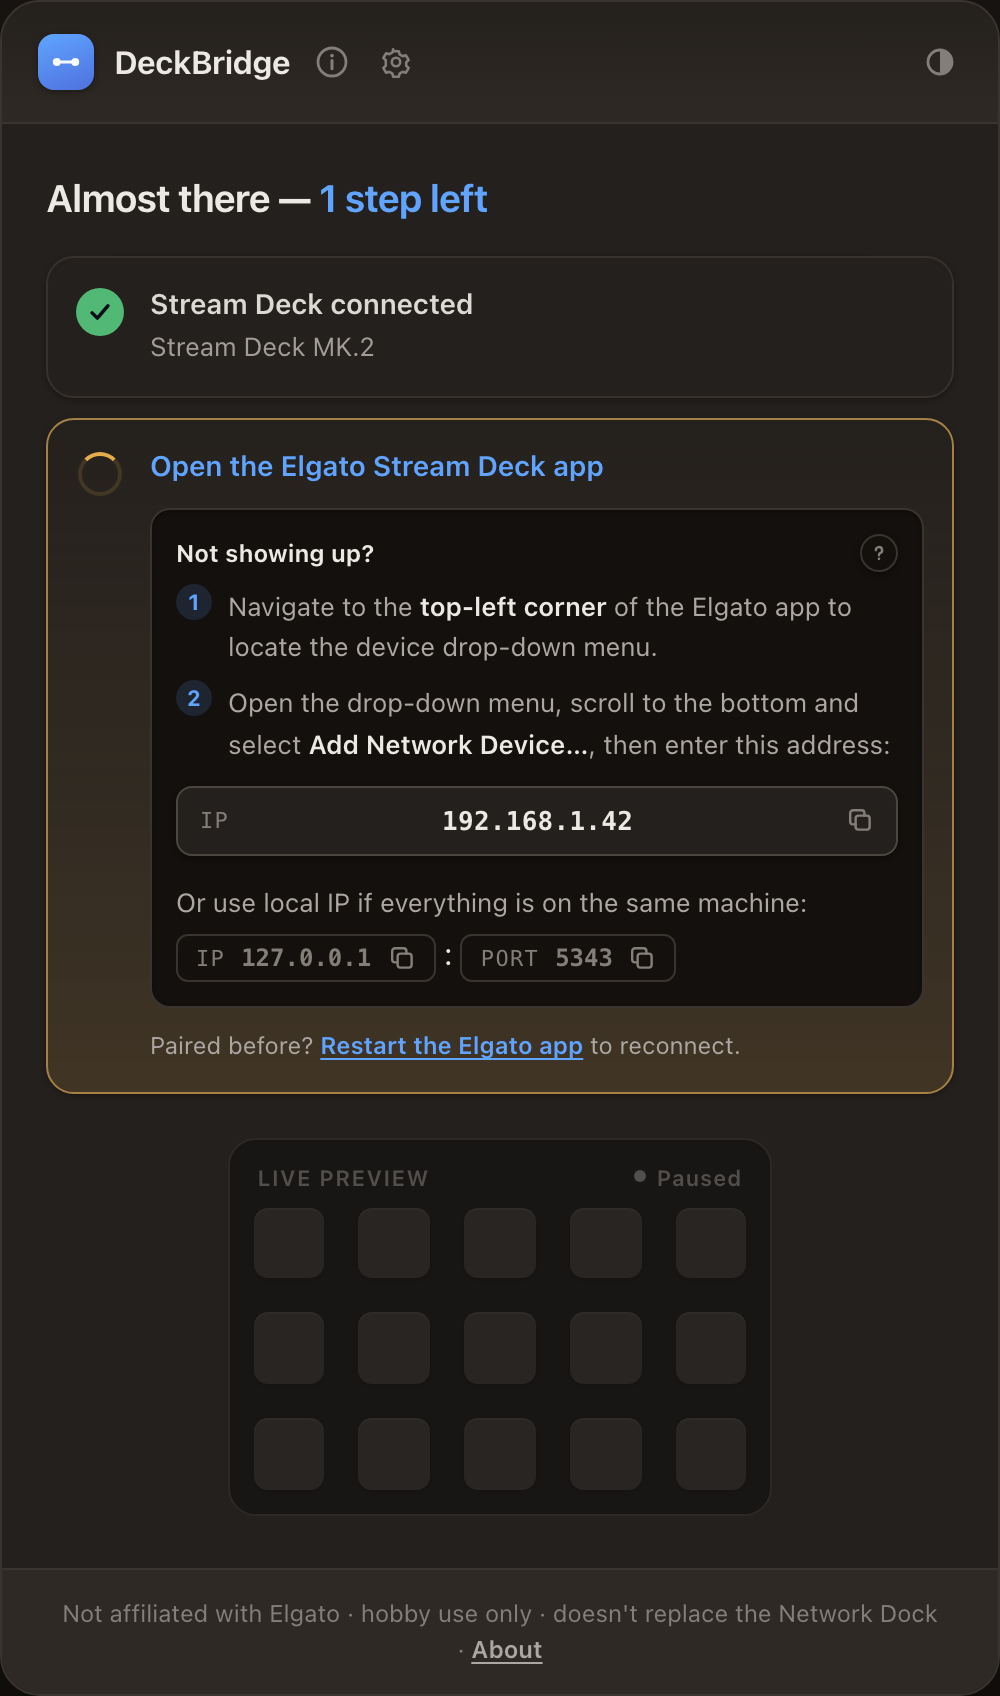
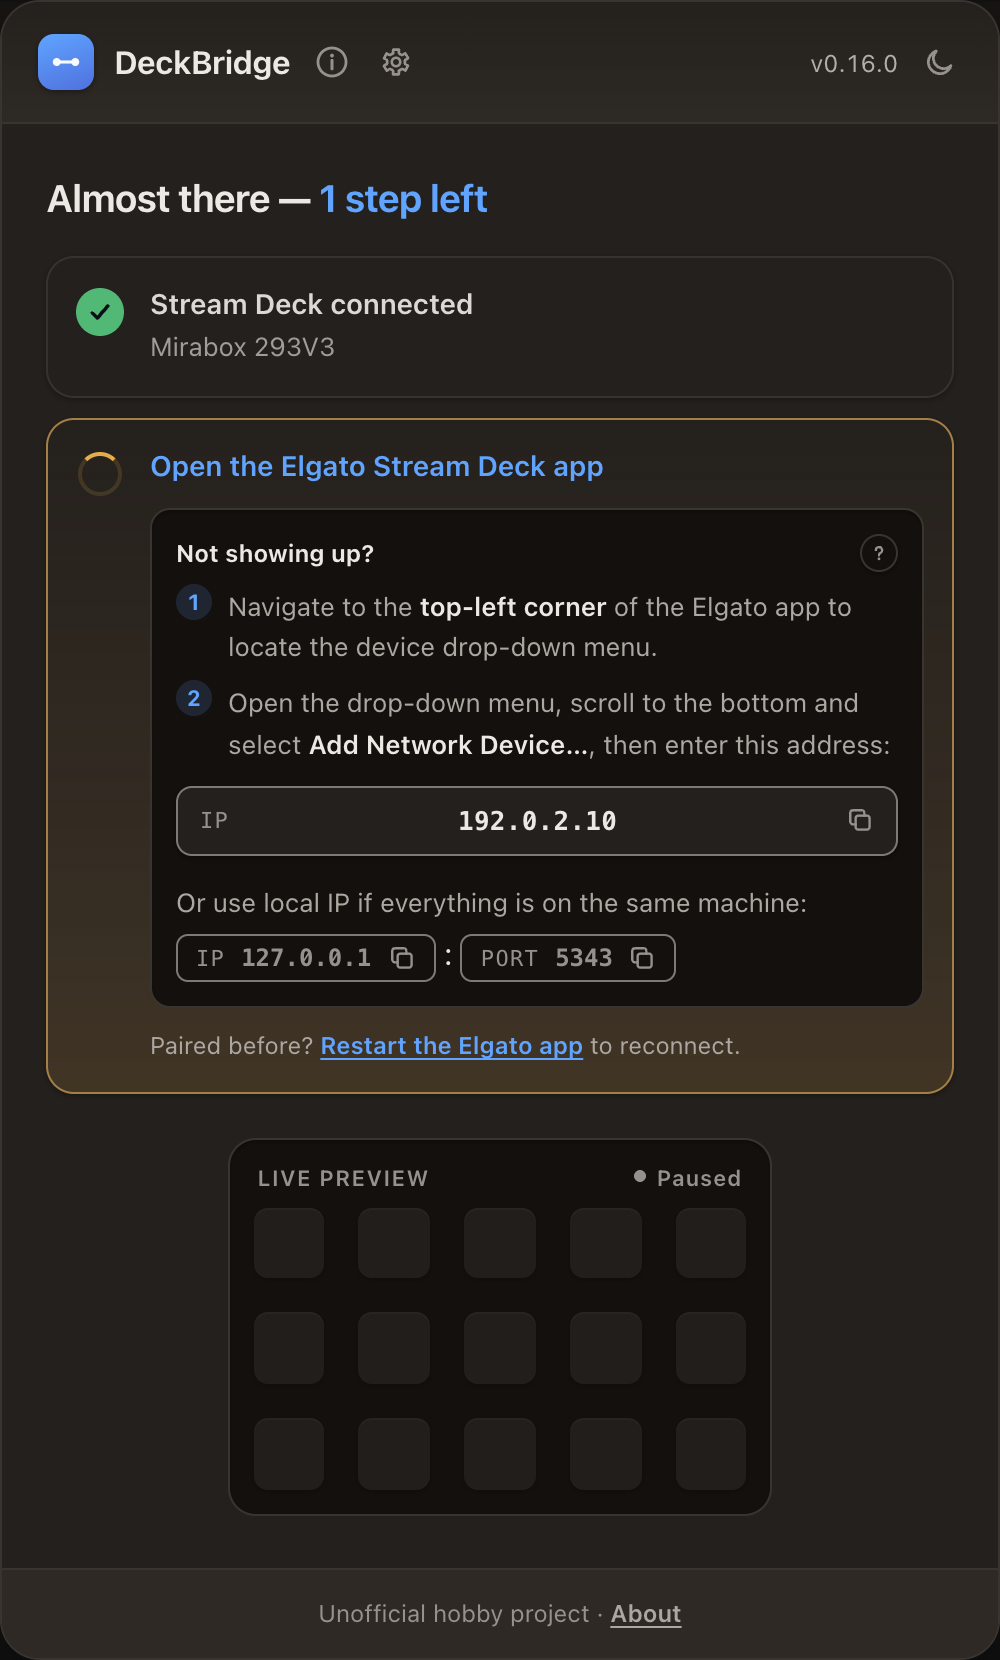
feat(devices): native Stream Deck+ emulation for AKP05, add mock-akp05 task
Retail AKP05 now advertises as stream-deck-plus by default (image/keyMap/cora
from AKP05E). Adds mise mock-akp05 task + script, regen device docs/images.

diff --git a/ts/src/web/client/ui-simple.css b/ts/src/web/client/ui-simple.css
@@ -25,7 +25,7 @@
   gap: 10px;
 }
 .app-version {
-  opacity: 0.5;
+  opacity: 0.7;
   font-size: 12px;
   font-variant-numeric: tabular-nums;
   white-space: nowrap;
@@ -96,7 +96,7 @@
 .xkey-config-btn {
   color: var(--fg-muted);
   background: var(--surface);
-  border: 1px solid var(--border);
+  border: 1px solid var(--control-border);
 }
 .ghostbtn {
   font-family: var(--font);
@@ -110,7 +110,7 @@
 }
 .ghostbtn:hover {
   color: var(--fg);
-  border-color: var(--border-strong);
+  border-color: var(--accent);
 }
 .ghostbtn:active,
 .ctabtn:active,
@@ -359,9 +359,11 @@
     width: 280px;
   }
   &.dimmed {
+    width: 60%;
+  }
+  &.dimmed :is(.key-grid, .touch-strip-preview) {
     filter: saturate(0.4) brightness(0.92);
     opacity: 0.55;
-    width: 60%;
   }
   &.dimmed .live-dot {
     color: var(--fg-dim);
@@ -523,7 +525,7 @@ input[type='range'].range {
     linear-gradient(var(--accent), var(--accent)) 0 / var(--fill, 80%) 100% no-repeat,
     var(--inset);
   box-shadow: var(--inset-shadow);
-  border: 1px solid var(--border);
+  border: 1px solid var(--control-border);
 
   /* NB: keep -webkit-/-moz- thumb rules separate — a shared selector list
      is dropped whole by the engine that doesn't know the other's pseudo */
@@ -534,7 +536,7 @@ input[type='range'].range {
     height: 20px;
     border-radius: 50%;
     background: var(--surface);
-    border: 1px solid var(--border-strong);
+    border: 1px solid var(--control-border);
     box-shadow: var(--shadow-2);
     transition: transform 0.08s;
   }
@@ -546,7 +548,7 @@ input[type='range'].range {
     height: 20px;
     border-radius: 50%;
     background: var(--surface);
-    border: 1px solid var(--border-strong);
+    border: 1px solid var(--control-border);
     box-shadow: var(--shadow-2);
   }
 }
@@ -1346,7 +1348,7 @@ input[type='range'].range:disabled {
   padding: 9px 11px;
   border-radius: 8px;
   background: var(--surface);
-  border: 1px solid var(--border-strong);
+  border: 1px solid var(--control-border);
   box-shadow: var(--shadow-1);
   color: var(--fg);
   font-size: 13px;
@@ -1389,7 +1391,7 @@ input[type='range'].range:disabled {
   padding: 4px 9px;
   border-radius: 6px;
   background: transparent;
-  border: 1px solid var(--border);
+  border: 1px solid var(--control-border);
   color: var(--fg-dim);
   font-size: 12px;
 }
@@ -1974,7 +1976,7 @@ input[type='range'].range:disabled {
   font-size: 12px;
   color: var(--fg);
   background: var(--bg);
-  border: 1px solid var(--border);
+  border: 1px solid var(--control-border);
   border-radius: var(--r-sm);
   padding: 4px 8px;
 }

diff --git a/ts/test/device-models.test.ts b/ts/test/device-models.test.ts
@@ -17,7 +17,7 @@ import {
   AJAZZ_AKP153E_REV2_MODEL,
   AJAZZ_AKP153R_REV2_MODEL,
 } from '../src/devices/ajazz/akp153-rev2.js';
-import { AJAZZ_AKP05E_MODEL } from '../src/devices/ajazz/akp05e.js';
+import { AJAZZ_AKP05E_MODEL, STREAM_DECK_PLUS_EMULATION } from '../src/devices/ajazz/akp05e.js';
 import { AJAZZ_AKP05_MODEL } from '../src/devices/ajazz/akp05.js';
 import { FIFINE_D6_MODEL, FIFINE_D6_REV2_MODEL } from '../src/devices/fifine/fifine-d6.js';
 import { AKP153_V1_CLONE_MODELS } from '../src/devices/rebadge/akp153-v1-clones.js';
@@ -132,9 +132,19 @@ test('AKP05E has its proven 2x5 output mapping', () => {
 
 test('AKP05 inherits AKP05E output protocol', () => {
   assert.equal(AJAZZ_AKP05_MODEL.protocol, AJAZZ_AKP05E_MODEL.protocol);
-  assert.equal(AJAZZ_AKP05_MODEL.protocol, AJAZZ_AKP05E_MODEL.protocol);
-  assert.deepEqual(AJAZZ_AKP05_MODEL.image, AJAZZ_AKP05E_MODEL.image);
-  assert.deepEqual(AJAZZ_AKP05_MODEL.keyMap, AJAZZ_AKP05E_MODEL.keyMap);
+  assert.equal(AJAZZ_AKP05_MODEL.wire, AJAZZ_AKP05E_MODEL.wire);
+});
+
+test('AKP05 pairs as Stream Deck + by default', () => {
+  assert.equal(AJAZZ_AKP05_MODEL.cora.advertiseAs, 'stream-deck-plus');
+  assert.equal(AJAZZ_AKP05_MODEL.cora.productId, ELGATO_PLUS_PID);
+  assert.deepEqual(
+    advertisedGeometry(AJAZZ_AKP05_MODEL),
+    modelToChildGeometry(STREAM_DECK_PLUS_MODEL),
+  );
+  assert.deepEqual(AJAZZ_AKP05_MODEL.image, STREAM_DECK_PLUS_EMULATION.image);
+  assert.deepEqual(AJAZZ_AKP05_MODEL.keyMap, STREAM_DECK_PLUS_EMULATION.keyMap);
+  assert.equal(AJAZZ_AKP05E_MODEL.cora.advertiseAs, undefined);
 });
 
 // Stream Deck + emulation profile

diff --git a/ts/src/web/client/ui-base.css b/ts/src/web/client/ui-base.css
@@ -12,14 +12,15 @@
   --inset: light-dark(oklch(0.935 0.009 72), oklch(0.175 0.008 64));
   --border: light-dark(oklch(0.895 0.01 72), oklch(0.33 0.01 64));
   --border-strong: light-dark(oklch(0.855 0.012 70), oklch(0.4 0.012 64));
+  --control-border: light-dark(oklch(0.6 0.01 72), oklch(0.58 0.01 64));
   --fg: light-dark(oklch(0.285 0.012 62), oklch(0.935 0.006 78));
-  --fg-muted: light-dark(oklch(0.505 0.012 64), oklch(0.73 0.01 72));
-  --fg-dim: light-dark(oklch(0.625 0.01 66), oklch(0.595 0.01 70));
-  --accent: light-dark(oklch(0.655 0.168 258), oklch(0.715 0.15 256));
+  --fg-muted: light-dark(oklch(0.44 0.012 64), oklch(0.73 0.01 72));
+  --fg-dim: light-dark(oklch(0.5 0.01 66), oklch(0.66 0.01 70));
+  --accent: light-dark(oklch(0.52 0.168 258), oklch(0.715 0.15 256));
   --accent-ink: light-dark(oklch(0.99 0.01 258), oklch(0.16 0.02 258));
-  --ok: light-dark(oklch(0.66 0.142 152), oklch(0.74 0.145 153));
+  --ok: light-dark(oklch(0.48 0.142 152), oklch(0.74 0.145 153));
   --wait: light-dark(oklch(0.72 0.135 75), oklch(0.78 0.13 78));
-  --warn: light-dark(oklch(0.6 0.18 32), oklch(0.7 0.165 35));
+  --warn: light-dark(oklch(0.52 0.18 32), oklch(0.7 0.165 35));
   --accent-soft: color-mix(in oklab, var(--accent), transparent 85%);
   --ok-soft: color-mix(in oklab, var(--ok), transparent 85%);
   --wait-soft: color-mix(in oklab, var(--wait), transparent 85%);

diff --git a/ts/src/devices/ajazz/akp05e.ts b/ts/src/devices/ajazz/akp05e.ts
@@ -40,7 +40,7 @@ const TOUCH_STRIP_IMAGE: DeviceImageSpec = { ...TOUCH_SLOT_IMAGE, width: 800 };
 // 5/10) becomes DeckBridge-owned extra keys (widget + press command, extra-keys.ts).
 // usePhysicalIdentity stays false — the AKP05E's own firmware (V3.AKP05E.02.007)
 // must not reach the desktop.
-const STREAM_DECK_PLUS_EMULATION: DeviceEmulation = {
+export const STREAM_DECK_PLUS_EMULATION = {
   image: { ...KEY_IMAGE, rotate: 180 },
   keyMap: {
     coraToWireImage: [11, 12, 13, 14, 6, 7, 8, 9],
@@ -48,7 +48,7 @@ const STREAM_DECK_PLUS_EMULATION: DeviceEmulation = {
     extraKeys: [15, 10],
     extraKeyInputs: [5, 10],
   },
-};
+} satisfies DeviceEmulation;
 
 /** AJAZZ AKP05E. Only PID 0x3004 has output-protocol evidence. */
 export const AJAZZ_AKP05E_MODEL: DeviceModel = {

diff --git a/ts/src/devices/ajazz/akp05.ts b/ts/src/devices/ajazz/akp05.ts
@@ -1,4 +1,5 @@
-import { AJAZZ_AKP05E_MODEL } from './akp05e.js';
+import { ELGATO_PLUS_PID } from '../../shared/types.js';
+import { AJAZZ_AKP05E_MODEL, STREAM_DECK_PLUS_EMULATION } from './akp05e.js';
 import type { DeviceModel } from '../driver.js';
 
 /** Retail AJAZZ AKP05. VID/PID and protocol-3 image format come from opendeck-akp05. */
@@ -7,4 +8,11 @@ export const AJAZZ_AKP05_MODEL: DeviceModel = {
   id: 'ajazz-akp05',
   name: 'AJAZZ AKP05',
   usbProductIds: [0x3006],
+  image: STREAM_DECK_PLUS_EMULATION.image,
+  keyMap: STREAM_DECK_PLUS_EMULATION.keyMap,
+  cora: {
+    ...AJAZZ_AKP05E_MODEL.cora,
+    productId: ELGATO_PLUS_PID,
+    advertiseAs: 'stream-deck-plus',
+  },
 };

diff --git a/docs-site/src/css/custom.css b/docs-site/src/css/custom.css
@@ -326,6 +326,22 @@ html[data-theme='dark'] img[alt$='light theme'] {
   display: none;
 }
 
+.db-dock-compare {
+  margin: 0.25rem 0 0.75rem;
+  padding: 0;
+  border: 0;
+  background: transparent;
+  box-shadow: none;
+}
+
+.db-dock-compare > summary {
+  width: fit-content;
+  color: var(--ifm-link-color);
+  cursor: pointer;
+  font-size: 0.875rem;
+  text-decoration: underline;
+}
+
 /* ---- Interactive pairing stepper (docs/features.md) ----
    Pure-CSS, no JS: 4 hidden radios drive the SVG layers + controls through
    `#db-sN:checked ~` sibling selectors. Prev/Next are <label>s pointing at the

diff --git a/ts/src/web/client/simple/device-tuning.tsx b/ts/src/web/client/simple/device-tuning.tsx
@@ -393,7 +393,11 @@ export function DeviceTuningPanel(): preact.JSX.Element {
             value={coraProfile}
             onChange={(e) => setCoraProfile((e.target as HTMLSelectElement).value)}
           >
-            <option value="">Native (default)</option>
+            <option value="">
+              {activeView.defaults.cora?.advertiseAs
+                ? 'Default (Stream Deck +)'
+                : 'Native (default)'}
+            </option>
             {activeView.profiles.map((p) => (
               <option key={p.id} value={p.id}>
                 {p.name}

diff --git a/docs/features.md b/docs/features.md
@@ -121,6 +121,13 @@ Web UI always shows current setup state. No guessing required.
 | **Ready to pair** | **Connected and working** |
 | ![DeckBridge showing the address needed to pair a connected Stream Deck, light theme](./img/webui-state-pairing.png) ![DeckBridge showing the address needed to pair a connected Stream Deck, dark theme](./img/webui-state-pairing-dark.png) | ![DeckBridge showing a connected and working Stream Deck with its live preview, light theme](./img/webui-state-ready.png) ![DeckBridge showing a connected and working Stream Deck with its live preview, dark theme](./img/webui-state-ready-dark.png) |
 
+### AKP05 as Elgato Stream Deck +
+
+This mock pairing shows the AKP05's eight app keys, touch strip, side keys, and knob
+controls with **Stream Deck +** emulation.
+
+![Paired AJAZZ AKP05 in Stream Deck Plus emulation showing touch strip and knobs, light theme](./img/webui-akp05-plus.png) ![Paired AJAZZ AKP05 in Stream Deck Plus emulation showing touch strip and knobs, dark theme](./img/webui-akp05-plus-dark.png)
+
 ## Use cases
 
 ```mermaid
@@ -136,8 +143,21 @@ flowchart LR
 
 - **Put the deck on another computer** — plug the deck into a laptop or mini-PC, run
   DeckBridge there, and control the Elgato app on your streaming PC across the LAN.
-- **Skip the Network Dock** — network-dock behaviour for hobby setups without buying
-  the hardware.
+- **Skip the Network Dock** — use a computer you already own and avoid buying the
+  [Elgato Network Dock](https://www.elgato.com/us/en/p/network-dock-stream-deck), listed at
+  **$79.99 USD** in September 2026.
+
+  <details class="db-dock-compare">
+  <summary>Compare DeckBridge with Network Dock</summary>
+
+  | | DeckBridge | Elgato Network Dock |
+  |---|---|---|
+  | **Cost** | Free software; needs a running computer. | $79.99 USD hardware (September 2026). |
+  | **Connection** | USB deck plugged into that computer; the computer can use WiFi or wired LAN. | [Ethernet and PoE](https://www.elgato.com/us/en/p/network-dock-stream-deck), or Ethernet with separate USB-C power. No computer needed beside the deck. |
+  | **Decks** | [Supported Elgato and non-Elgato models](./introduction.mdx#supported-devices); limited device selection. | [Supported Stream Deck models](https://www.elgato.com/uk/en/explorer/products/stream-deck/stream-deck-network-dock-overview/), including XL and +; some older models are excluded. |
+  | **Use** | Hobby project with setup flexibility; host computer must stay on. | Dedicated, officially supported hardware for fixed installations; requires purchase and wired network. |
+
+  </details>
 - **Use a real Stream Deck wirelessly** — a Stream Deck Mini or MK.2 works the same way,
   over WiFi instead of a cable.
 - **Bitfocus Companion** — Companion also speaks the dock protocol and discovers
